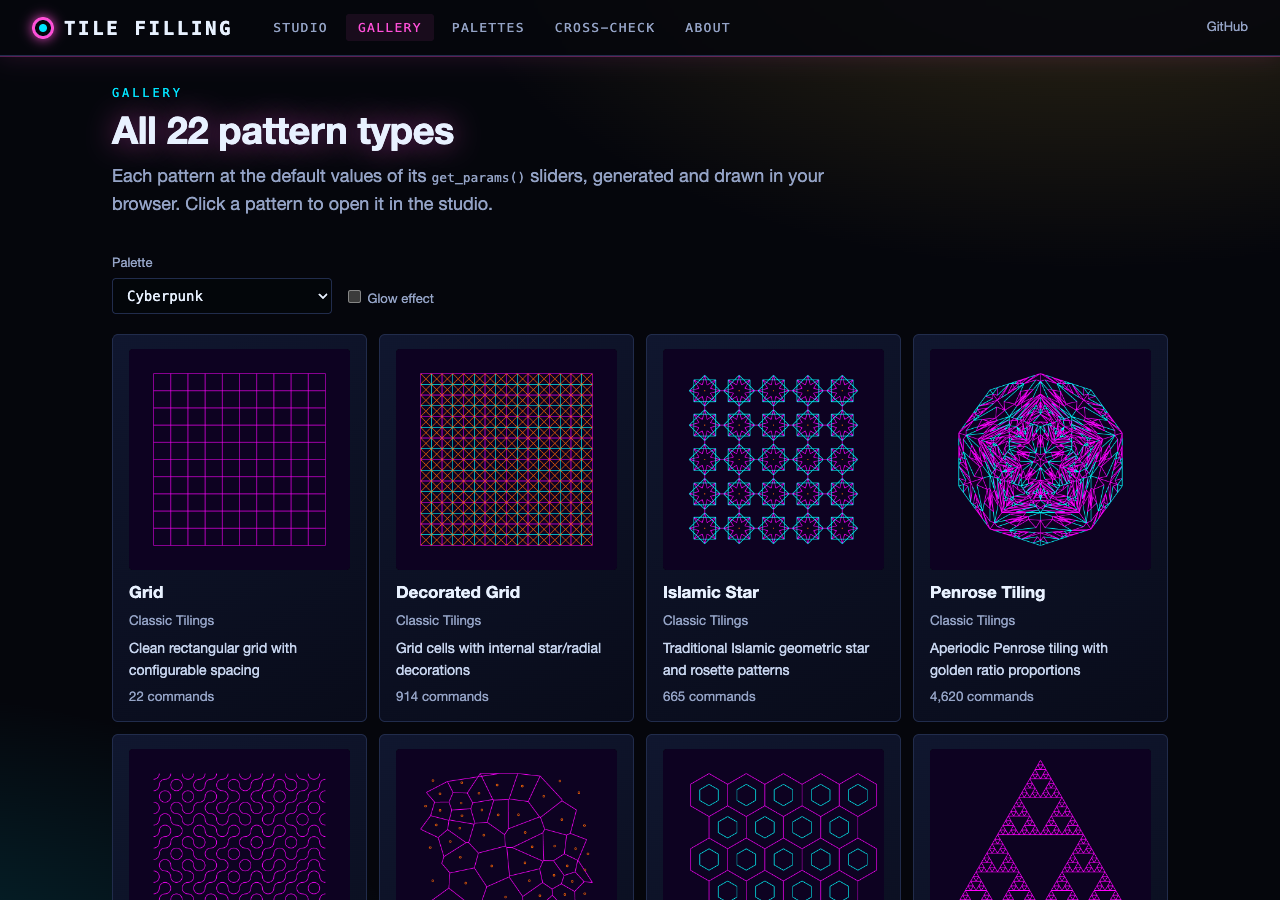
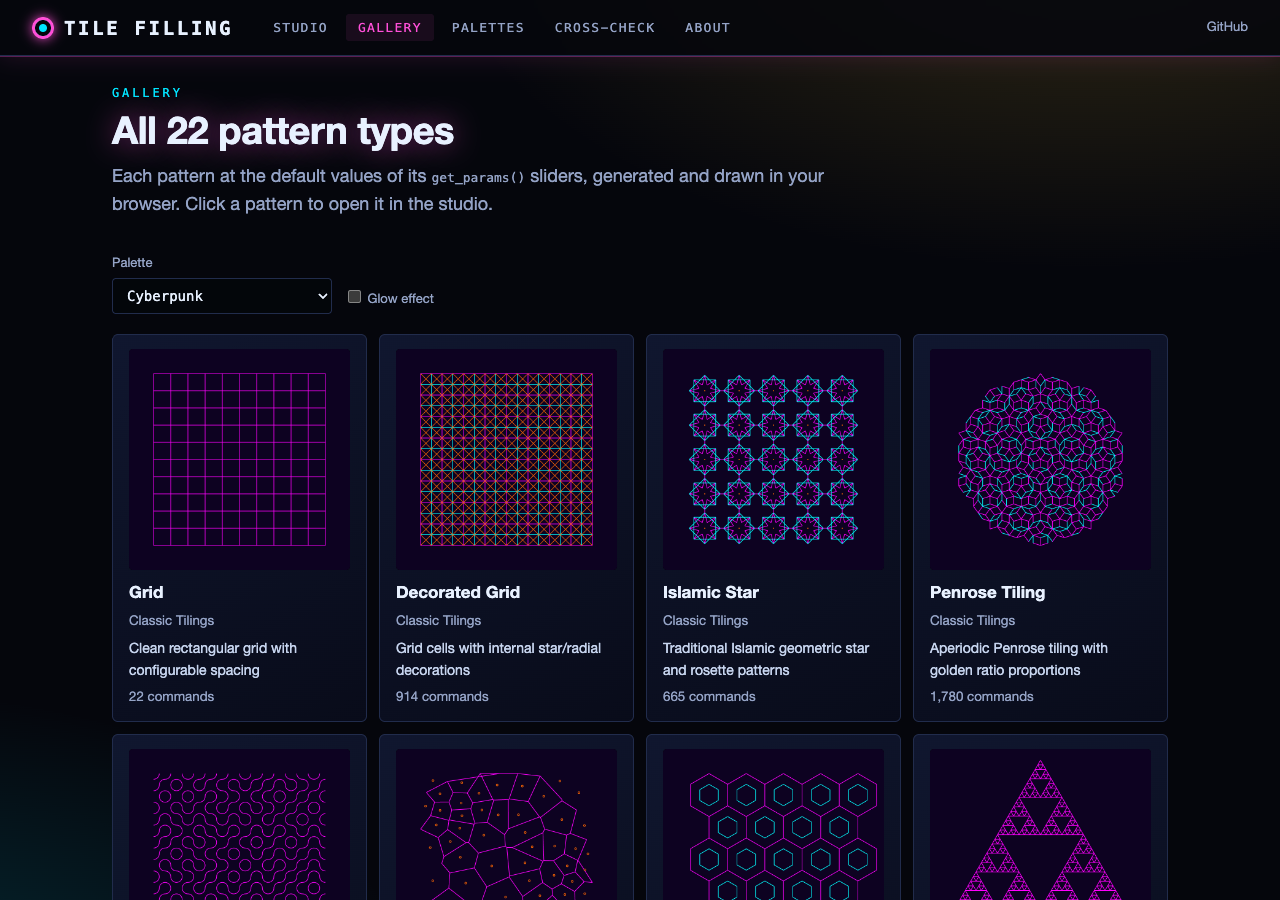
Session log and README screenshots after the pattern fixes

Changed region(s): [[0.75, 0.4044, 0.875, 0.6222]]

diff --git a/SESSION_LOG.md b/SESSION_LOG.md
@@ -27,7 +27,7 @@
 - README said "9 post-processing effects"; the app has 6 (kaleidoscope, bloom, vignette, chromatic aberration, scan
   lines, grain) plus glow and gradient line rendering. Corrected the README.
 
-### Needs George's decision (not changed)
+### Needs George's decision (first three items resolved later the same day, see below)
 - Sliders that do nothing: Grid `line_weight`, Space-Filling `connect` and `rounded` (both branches draw straight
   segments), Sierpinski `fill_mode`, Chladni `threshold`. Implement or remove? (The web About page says so.)
 - Penrose: `_extract_rhombs` pairs triangles into quadrilaterals `[a, b, a2, c]` that are not the P3 rhombs, so the
@@ -61,3 +61,9 @@
   length, golden-triangle angles, area conservation, every edge shared by two triangles or on the patch outline,
   rhomb angles 36/144 and 72/108, and thick/thin -> golden ratio. Regenerated `samples/penrose_ocean.png` and
   `samples/apollonian_gold.png` (defaults, with bloom for the gasket) with the fixed code.
+- Checks re-run: pytest 26 passed (test_web 15, test_rendering 3, test_patterns 8), node engine 158 checks / effects 7,
+  screenshots static (8 routes) and against `run_web.py` on 8123 all ok, Cross-check page 22/22, desktop GUI renders
+  the changed patterns. README screenshots refreshed.
+- Still open for George: the Apollonian "Four" seed (three inner circles at 0.36 R from the centre with radius 0.4 R
+  overlap each other, so no tangent circles exist and it now draws only its 4 seed circles; it was previously filled
+  with spurious circles). Make it a tangent configuration (which would match "Three") or drop it?
